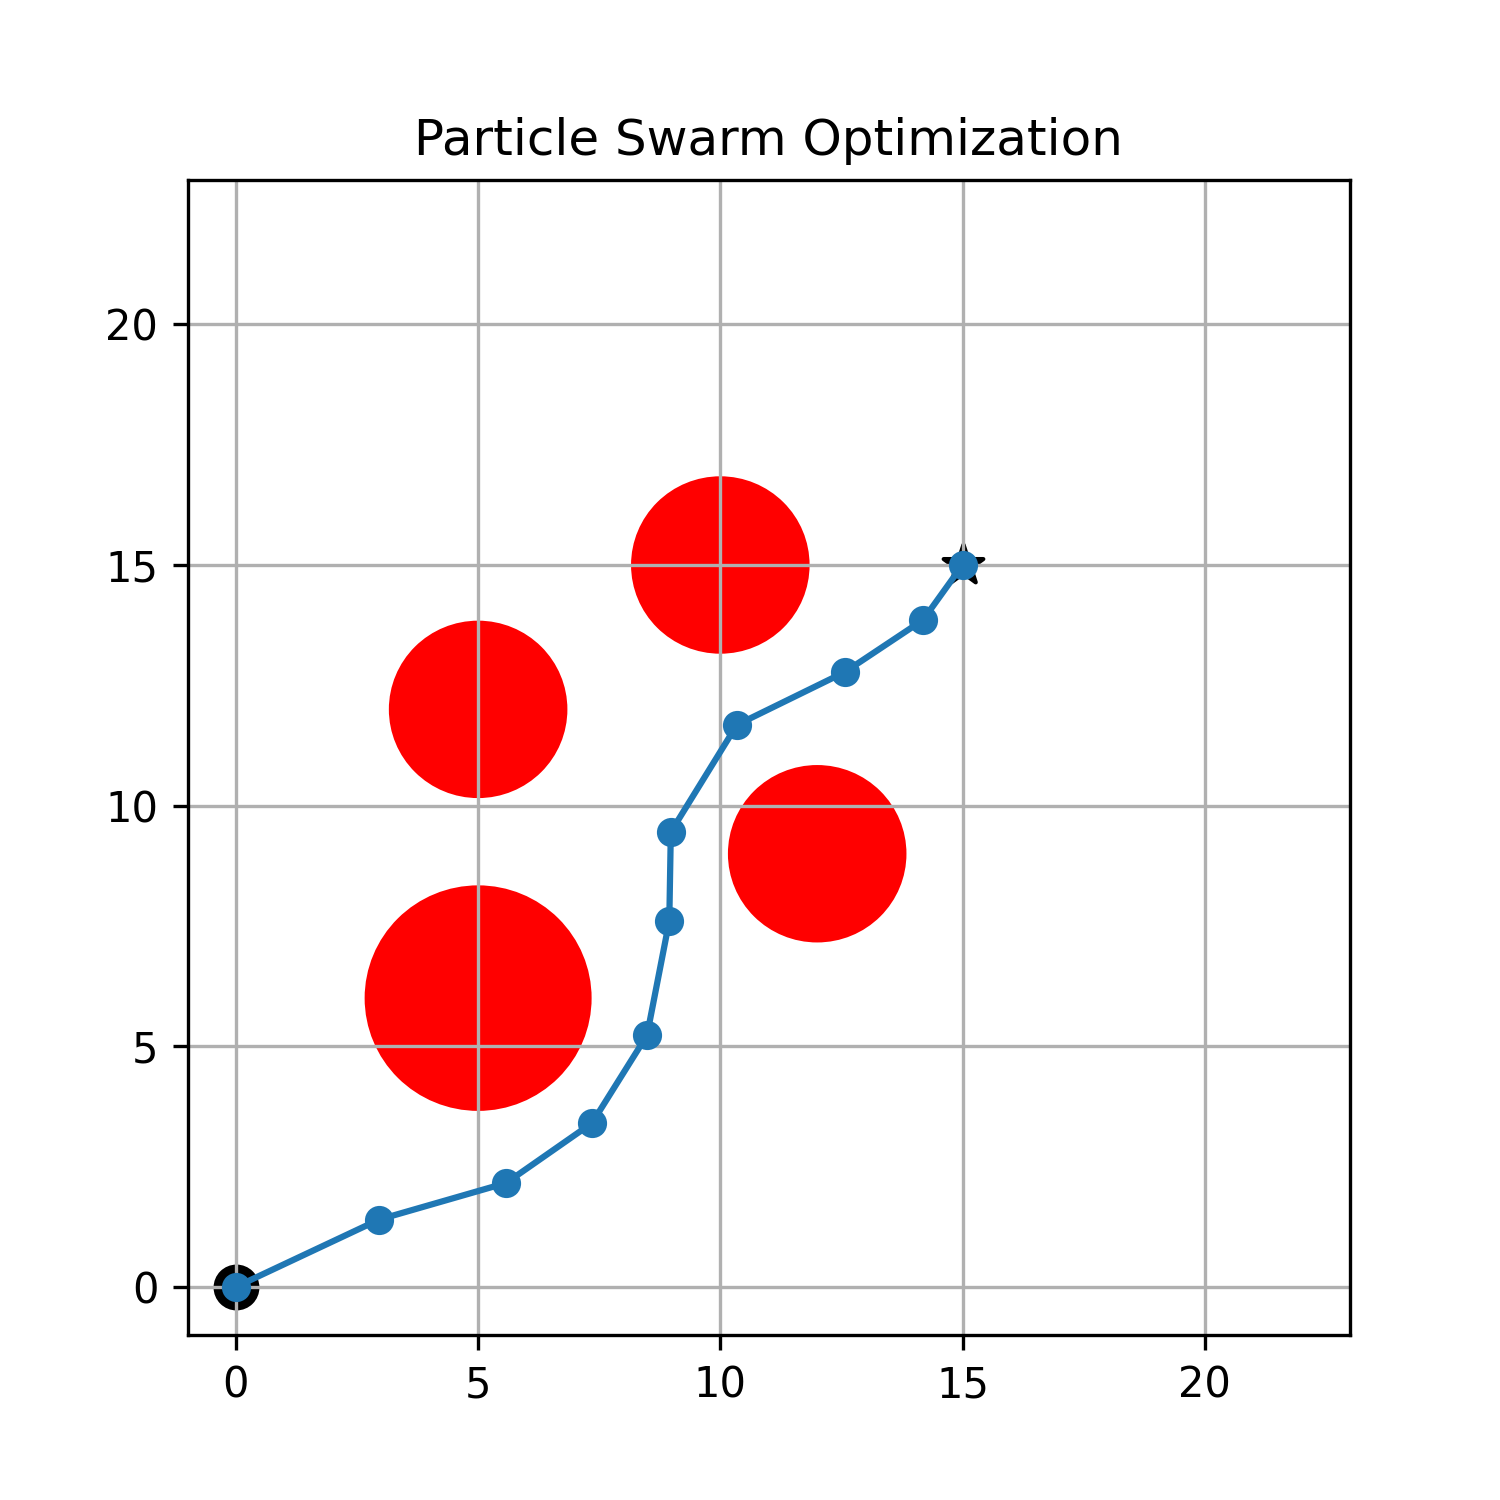
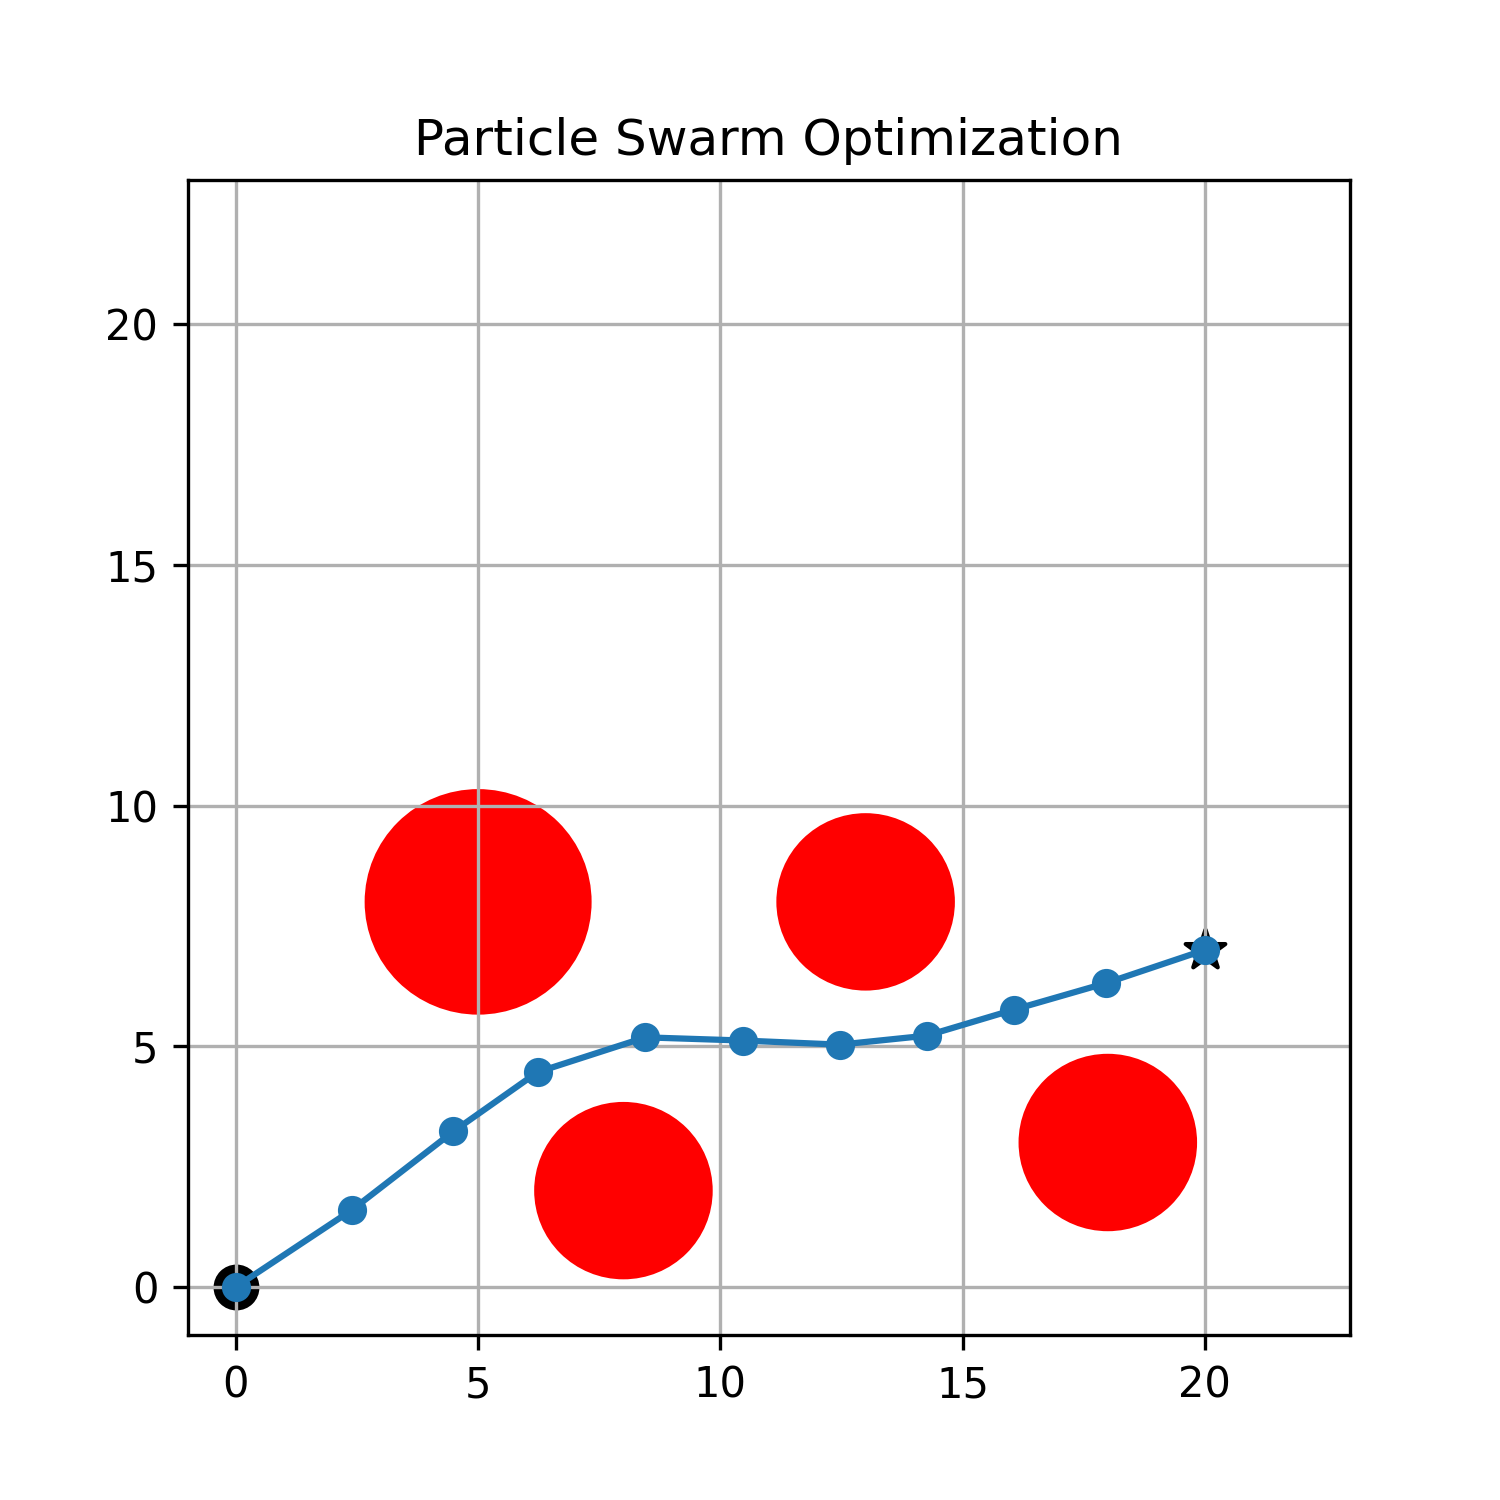
fifth commit add main2x1.py

diff --git a/main2x1.py b/main2x1.py
@@ -1,0 +1,291 @@
+import math
+import obstacles as ob
+import numpy as np
+import matplotlib.pyplot as plt
+
+
+def plot_circle(circle):
+    """
+    This function plot one circle.
+
+    Parameters:
+        circle (Obstacle_Circle): Circle to plot.
+    """
+
+    plt.gca().add_patch(
+        plt.Circle(
+            (circle.C.x, circle.C.y), circle.r - 0.2, edgecolor="red", facecolor="red"
+        )
+    )
+
+
+def plot_graph(best_location):
+    """
+    This function plot the graph.
+
+    Parameters:
+        best_location (List[float, float]): Lists of points to plot.
+    """
+
+    plt.close("all")
+    plt.figure(figsize=(5, 5))
+    plt.grid("on")
+    plt.rc("axes", axisbelow=True)
+    plt.scatter(END.x, END.y, 100, marker="*", facecolors="k", edgecolors="k")
+    plt.scatter(START.x, START.y, 100, marker="o", facecolors="k", edgecolors="k")
+    X = [best_location[i][0] for i in range(DIM)]
+    X.insert(0, START.x)
+    X.append(END.x)
+    Y = [best_location[i][1] for i in range(DIM)]
+    Y.insert(0, START.y)
+    Y.append(END.y)
+    plt.plot(X, Y, "o-")
+    for i in range(DIM):
+        plt.scatter(
+            best_location[i][0],
+            best_location[i][1],
+            25,
+            marker=".",
+            facecolors="blue",
+            edgecolors="face",
+        )
+        # plt.text(best_location[i][0] + 0.1,best_location[i][1]+0.1,str(i),fontsize=8)
+    plt.xlim(-1, 23)
+    plt.ylim(-1, 23)
+    plt.title("Particle Swarm Optimization")
+
+
+def random_initialization(swarm_size):
+    """
+    Random initializations of PSO particles location and velocity.
+
+    Parameters:
+        swarm_size (int): How many particles are present.
+
+    Returns:
+        List[List[float, float]]: List of starting coordinates of the particles, total number = swarm_size * DIM * 2.
+        List[float, float]: List of starting velocity of the particles, total number = swarm_size * DIM * 2.
+        List[floats]: Each particle best loss function result.
+        List[List[float, float]]: List of best velocity of the particles (there's only the starting in the initialization).
+        float: Best loss function result.
+        List[float, float]: The best location.
+    """
+
+    # set the location and velocity of the particle's
+    # particles_loc = np.random.rand(swarm_size, DIM, 2) * 20
+    particles_loc_x = np.random.rand(swarm_size,DIM)*20
+    particles_loc_y = np.random.rand(swarm_size,DIM)*10
+    particles_loc = np.stack((particles_loc_x,particles_loc_y),axis= -1)
+
+    particles_vel = np.random.rand(swarm_size, DIM, 2)
+
+    # set the initial particle best location and value
+    particles_lowest_loss = [
+        loss_function(particles_loc[i, :, :]) for i in range(0, len(particles_loc))
+    ]
+    particles_best_location = np.copy(particles_loc)
+
+    # set the initial global best location and value
+    global_lowest_loss = np.min(particles_lowest_loss)
+    global_best_location = particles_loc[np.argmin(particles_lowest_loss)].copy()
+
+    return (
+        particles_loc,
+        particles_vel,
+        particles_lowest_loss,
+        particles_best_location,
+        global_lowest_loss,
+        global_best_location,
+    )
+
+
+def loss_function(x):
+    """
+    Loss function to find the shortest path.
+
+    Parameters:
+        x (List[Point]): List of points representing the path of the agent.
+
+    Returns:
+        int: The loss function result
+    """
+
+    z = (x[0, 0] - START.x) ** 2 + (x[0, 1] - START.y) ** 2
+    for i in range(DIM - 1):
+        z = z + ((x[i, 0] - x[i + 1, 0]) ** 2 + (x[i, 1] - x[i + 1, 1]) ** 2)
+    z = z + (x[DIM - 1, 0] - END.x) ** 2 + (x[DIM - 1, 1] - END.y) ** 2
+    return math.sqrt(z)
+
+
+def is_valid(circles, p):
+    """
+    Check if the point p is valid (i.e. doesn't go into obstacles).
+
+    Parameters:
+        circles (List[Obstacle_Circle]): The list of obstacles.
+        p (Point): The point to check.
+
+    Returns:
+        boolean: wheter the point is valid
+    """
+    to_add = ob.Point(0, 0)
+    point_p = ob.Point(p[0], p[1])
+    for i in range(len(circles)):
+        if circles[i].inside_circle(point_p):
+            to_add = ob.Point(
+                circles[i].how_to_exit_x(point_p.x) + to_add.x,
+                circles[i].how_to_exit_y(point_p.y) + to_add.y,
+            )
+    return to_add
+
+
+def particle_swarm_optimization(
+    max_iterations, swarm_size, max_vel, step_size, inertia, c1, c2, circles
+):
+    """
+    Implementation of the Particle Swarm Optimization algorithm randomly.
+
+    Parameters:
+        max_iterations (int): The maximum number of iterations.
+        swarm_size (int): The number of particles.
+        max_vel (int): Maximum velocity for a particle.
+        step_size (int): The step size for updating each particle (how far a particle travels before its velocity is readjusted).
+        inertia (int): The inertia of a particle.
+        c1 (int): Factor for the particles local best.
+        c2 (int): Factor for the the global best.
+        circles (Obstacle_Circle): Obstacle of circular shape.
+
+    Returns:
+        boolean: the best path
+    """
+    (
+        particles_loc,
+        particles_vel,
+        particles_lowest_loss,
+        particles_best_location,
+        global_lowest_loss,
+        global_best_location,
+    ) = random_initialization(swarm_size)
+    best_location = []
+    print_iteration = 1
+
+    for iteration_i in range(max_iterations):
+        if iteration_i % 20 == 0:
+            print("%i%%" % int(iteration_i / max_iterations * 100))
+            print_iteration += 1
+        for particle_i in range(swarm_size):
+            dim_i = 0
+            while dim_i < DIM:
+                # update the velocity vector in a given dimension
+                error_particle_best = (
+                    particles_best_location[particle_i, dim_i]
+                    - particles_loc[particle_i, dim_i]
+                )
+                error_global_best = (
+                    global_best_location[dim_i] - particles_loc[particle_i, dim_i]
+                )
+                new_vel = (
+                    inertia
+                    * min(1, (dim_i ** (0.5)) / 4)
+                    * particles_vel[particle_i, dim_i]
+                    + c1 * np.random.rand(1) * error_particle_best
+                    + c2 * np.random.rand(1) * error_global_best
+                )
+
+                # bound a particle's velocity to the maximum value
+                if new_vel[0] < -max_vel:
+                    new_vel[0] = -max_vel
+                elif new_vel[0] > max_vel:
+                    new_vel[0] = max_vel
+                if new_vel[1] < -max_vel:
+                    new_vel[1] = -max_vel
+                elif new_vel[1] > max_vel:
+                    new_vel[1] = max_vel
+
+                # update the particle location and velocity
+                particles_loc[particle_i, dim_i] = (
+                    particles_loc[particle_i, dim_i] + new_vel[:] * step_size
+                )
+                particles_vel[particle_i, dim_i] = new_vel[:]
+
+                particle_help = is_valid(circles, particles_loc[particle_i, dim_i, :])
+                particles_loc[particle_i, dim_i, 0] += particle_help.x
+                particles_loc[particle_i, dim_i, 1] += particle_help.y
+                if abs(particle_help.x) > 0.1 or abs(particle_help.y) > 0.1:
+                    dim_i -= 1
+                dim_i += 1
+            # for the new location, check if this is a new local or global best (if it's valid)
+            particle_error = loss_function(particles_loc[particle_i, :])
+            if particle_error < particles_lowest_loss[particle_i]:  # local best
+                particles_lowest_loss[particle_i] = particle_error
+                particles_best_location[particle_i, :] = particles_loc[
+                    particle_i, :
+                ].copy()
+            if particle_error < global_lowest_loss:  # global best
+                global_lowest_loss = particle_error
+                global_best_location = particles_loc[particle_i, :].copy()
+
+        best_location = global_best_location.copy()
+    return best_location
+
+
+DIM = 9
+# DIM = 
+# START = ob.Point(1, 1)
+# END = ob.Point(10, 20)
+START = ob.Point(0,0)
+# END = ob.Point(12.5,15)
+END = ob.Point(20,7)
+
+
+
+def main():
+    print("Finding best path with PSO:")
+    print("loading:")
+    best_location = []  # for the plot
+    path=[]
+
+    # # the obstacle using for space1.5x1.5m
+    # obstacle1 = ob.Obstacle_Circle(2, ob.Point(9 +1, 14 + 1))  
+    # obstacle2 = ob.Obstacle_Circle(2.5, ob.Point(5, 6))
+    # obstacle3 = ob.Obstacle_Circle(2, ob.Point(12, 9))
+    # # obstacle4 = ob.Obstacle_Circle(2, ob.Point(12.5, 3))
+    # obstacle4 = ob.Obstacle_Circle(2, ob.Point(5, 12))
+    
+    # the obstacle using for space 2x1 m
+    obstacle1 = ob.Obstacle_Circle(2.5, ob.Point(5, 8))
+    obstacle2 = ob.Obstacle_Circle(2, ob.Point(8, 2))  
+    obstacle3 = ob.Obstacle_Circle(2, ob.Point(13, 8))
+    obstacle4 = ob.Obstacle_Circle(2, ob.Point(18, 3))
+
+
+    obstacles = [obstacle1, obstacle2, obstacle3,obstacle4]
+
+    best_location = particle_swarm_optimization(
+        max_iterations=100,
+        swarm_size=500,
+        max_vel=3,
+        step_size=1,
+        inertia=0.9,
+        c1=2.05,
+        c2=2.05,
+        circles=obstacles,
+    )
+    print("100% completed!")
+    ##add start point và end point 
+    path.append([START.x,START.y])
+    for loc in best_location:
+        path.append([loc[0], loc[1]])
+    path.append([END.x,END.y])
+    for i in range(len(path)):
+        path[i][0] /= 10
+        path[i][1] /= 10
+    print("best path:{}".format(path))
+    plot_graph(best_location)
+    for obstacle in obstacles:
+        plot_circle(obstacle)
+    plt.savefig("results", dpi=300)
+    plt.show()
+
+
+main()

diff --git a/obstacles copy.py b/obstacles copy.py
@@ -1,0 +1,63 @@
+import math
+
+
+class Point:
+    def __init__(self, x, y):
+        self.x = x
+        self.y = y
+
+
+class Obstacle_Circle:
+    """
+    This is a class to implement an obstacle of circular shape.
+
+    Attributes:
+        r (int): the radius of the circle.
+        C (Point): Center of the circle.
+
+    """
+
+    def __init__(self, r, C):
+        self.r = r
+        self.C = C
+
+    def inside_circle(self, p):
+        """
+        The function to check if point p lies inside the circle.
+
+        Parameters:
+            p (Point): Point to check.
+
+        Returns:
+            boolean: Wheter the point is inside the circle or not.
+        """
+
+        # return (p.x - self.C.x) ** 2 + (p.y - self.C.y) ** 2 <= self.r**2
+        return (p.x - self.C.x) ** 2 + (p.y - self.C.y) ** 2 <= (self.r + 1)**2
+
+
+    def how_to_exit_y(self, y):
+        """
+        The function helps the point inside the circe to exit (coordiante y).
+
+        Parameters:
+            y (int): Coordinate y of point to check.
+
+        Returns:
+            int: y distance between point and center.
+        """
+
+        return y - self.C.y
+
+    def how_to_exit_x(self, x):
+        """
+        The function helps the point inside the circe to exit (coordiante x).
+
+        Parameters:
+            x (int): Coordinate x of point to check.
+
+        Returns:
+            int: x distance between point and center.
+        """
+
+        return x - self.C.x
